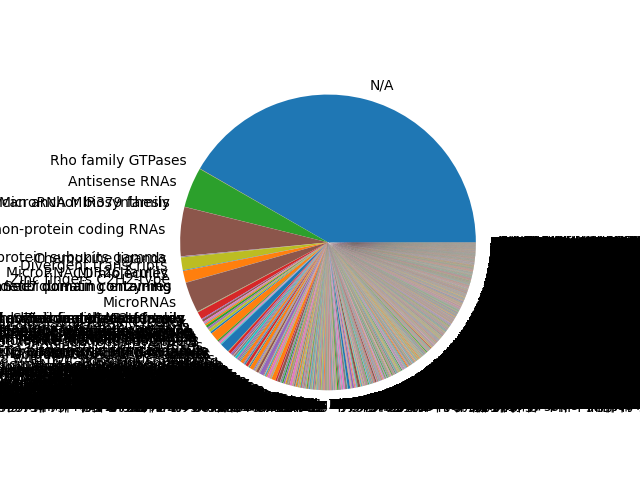
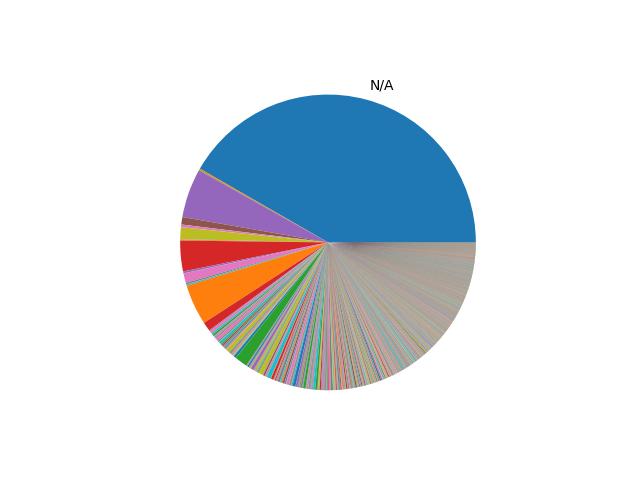
Image testing

diff --git a/homework08/genome_database.py b/homework08/genome_database.py
@@ -180,6 +180,11 @@ def image():
                 else:
                     the_labels.append(gene_group)
                     values.append(1)
+            # Remove trivial labels for legibility
+            s = sum(values)
+            for ii in range(0, len(values)):
+                if values[ii] / s < 0.1:
+                    the_labels[ii] = ''
             fig, ax = plt.subplots()
             ax.pie(values, labels = the_labels) 
             plt.savefig(file_path)
